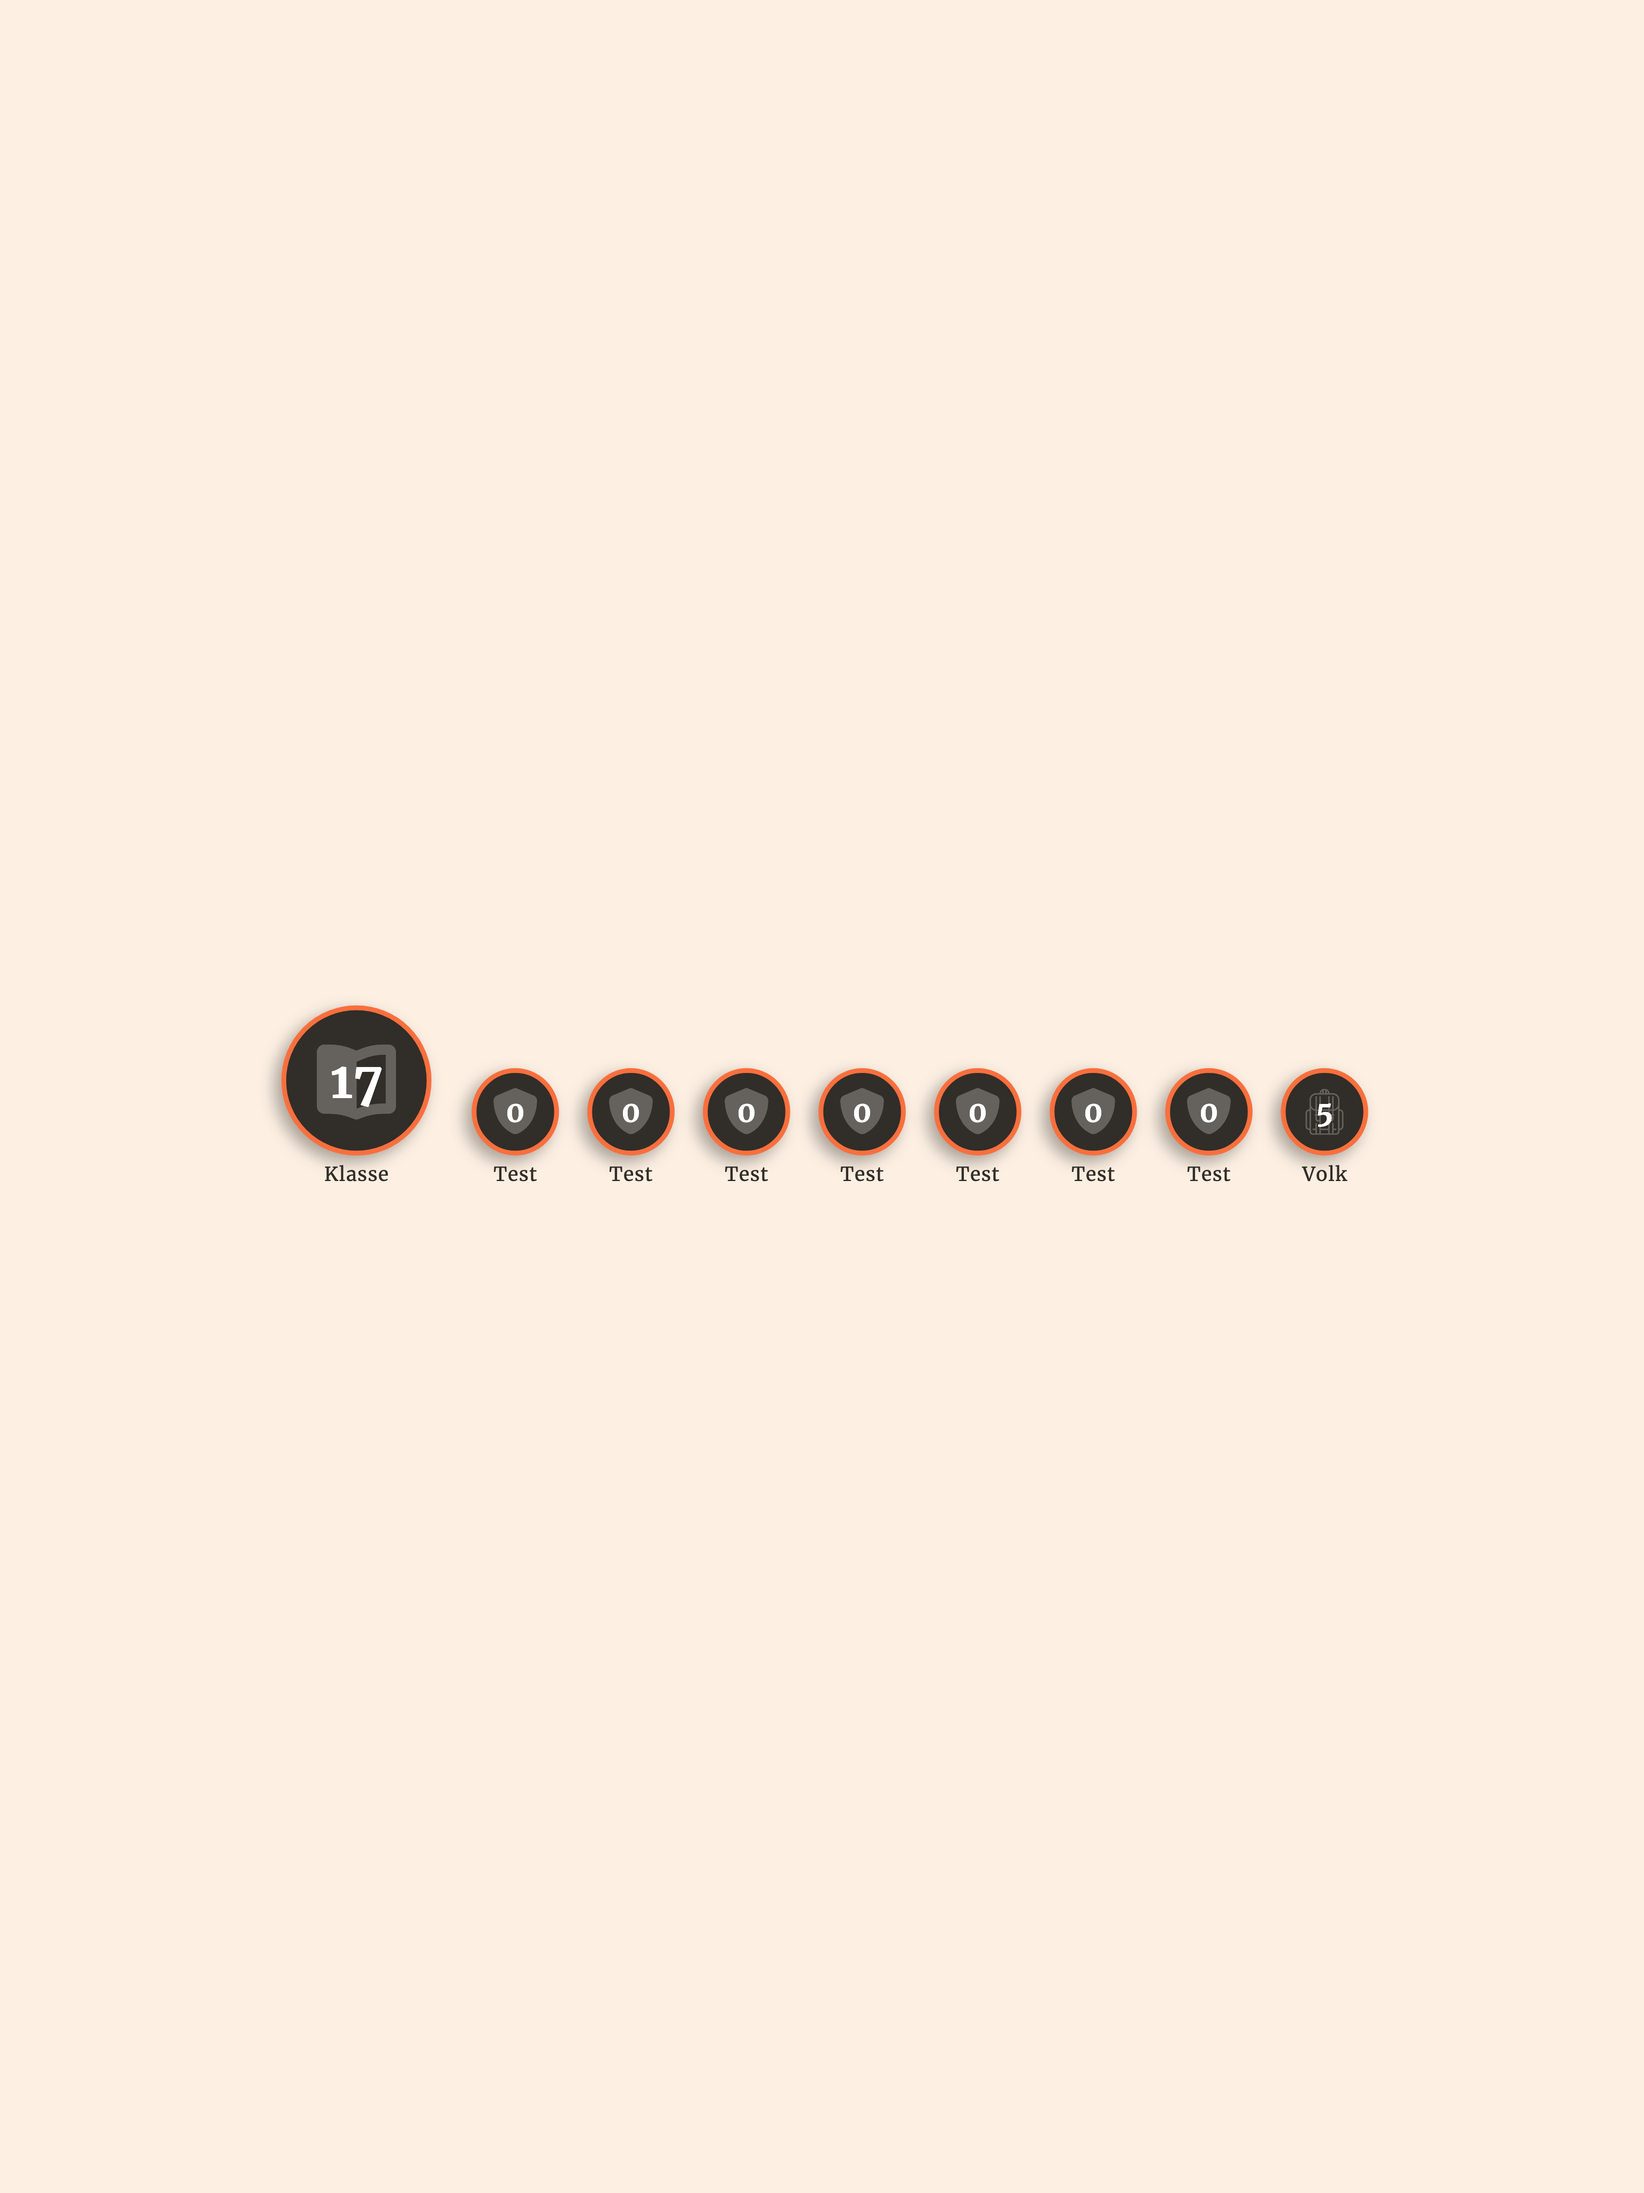
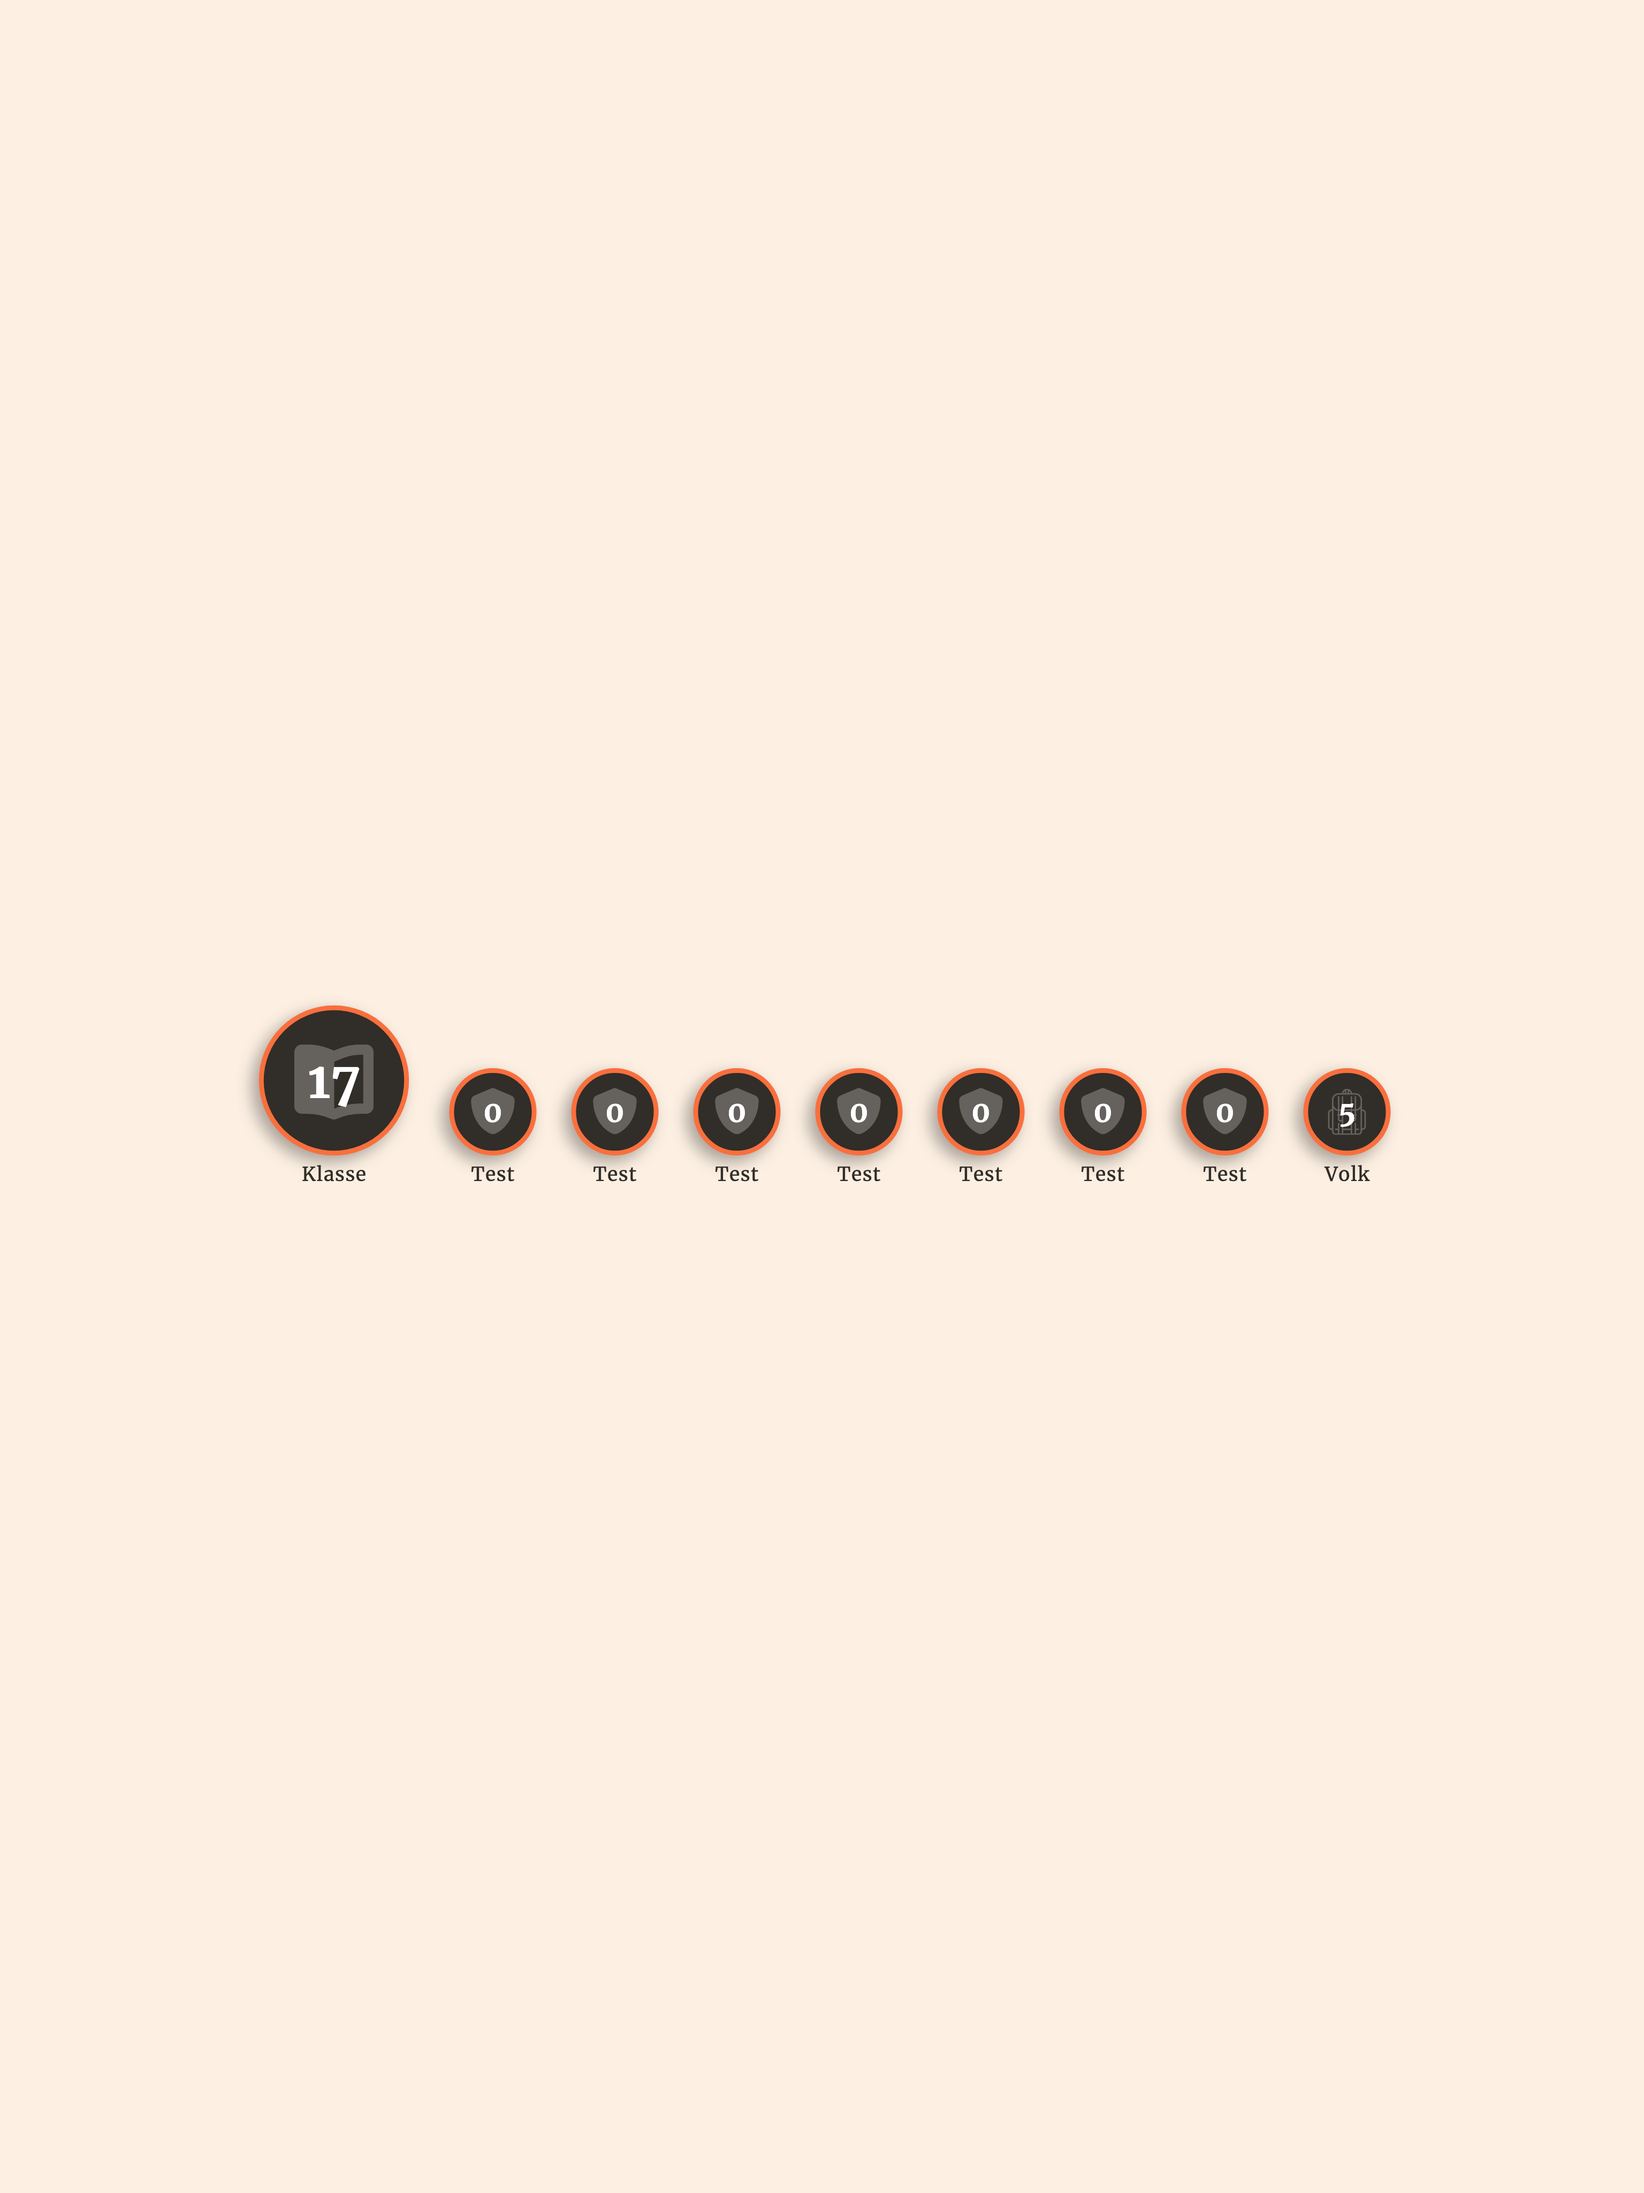
wip

Changed region(s): [[0.1562, 0.4373, 0.8438, 0.5622]]

diff --git a/applications/rpg_table_helper/lib/helpers/character_stats/stat_visualization_variant_widgets.dart b/applications/rpg_table_helper/lib/helpers/character_stats/stat_visualization_variant_widgets.dart
@@ -968,8 +968,10 @@ class IconStatRibbon extends StatelessWidget {
         borderRadius: BorderRadius.circular(6),
         border: Border.all(color: StatVizTheme.dark(context), width: 1.5),
       ),
-      child: Row(
-        mainAxisSize: MainAxisSize.min,
+      child: Wrap(
+        spacing: 0,
+        runSpacing: 6,
+        crossAxisAlignment: WrapCrossAlignment.center,
         children: [
           for (var i = 0; i < items.length; i++) ...[
             if (i > 0)
@@ -1013,9 +1015,12 @@ class IconPrimaryHeroRow extends StatelessWidget {
     if (items.isEmpty) return SizedBox.shrink();
     final primary = items.first;
     final rest = items.skip(1).toList();
-    return Row(
-      mainAxisSize: MainAxisSize.min,
-      crossAxisAlignment: CrossAxisAlignment.end,
+    // Wrap instead of Row so many secondary medallions reflow instead of
+    // overflowing narrow config-preview / tablet widths.
+    return Wrap(
+      spacing: 12,
+      runSpacing: 8,
+      crossAxisAlignment: WrapCrossAlignment.end,
       children: [
         IconMedallion(
           iconName: primary.iconName,
@@ -1023,20 +1028,13 @@ class IconPrimaryHeroRow extends StatelessWidget {
           value: primary.value,
           size: 110,
         ),
-        SizedBox(width: 12),
-        Wrap(
-          spacing: 8,
-          runSpacing: 8,
-          children: rest
-              .map(
-                (e) => IconMedallion(
-                  iconName: e.iconName,
-                  label: e.label,
-                  value: e.value,
-                  size: 64,
-                ),
-              )
-              .toList(),
+        ...rest.map(
+          (e) => IconMedallion(
+            iconName: e.iconName,
+            label: e.label,
+            value: e.value,
+            size: 64,
+          ),
         ),
       ],
     );
